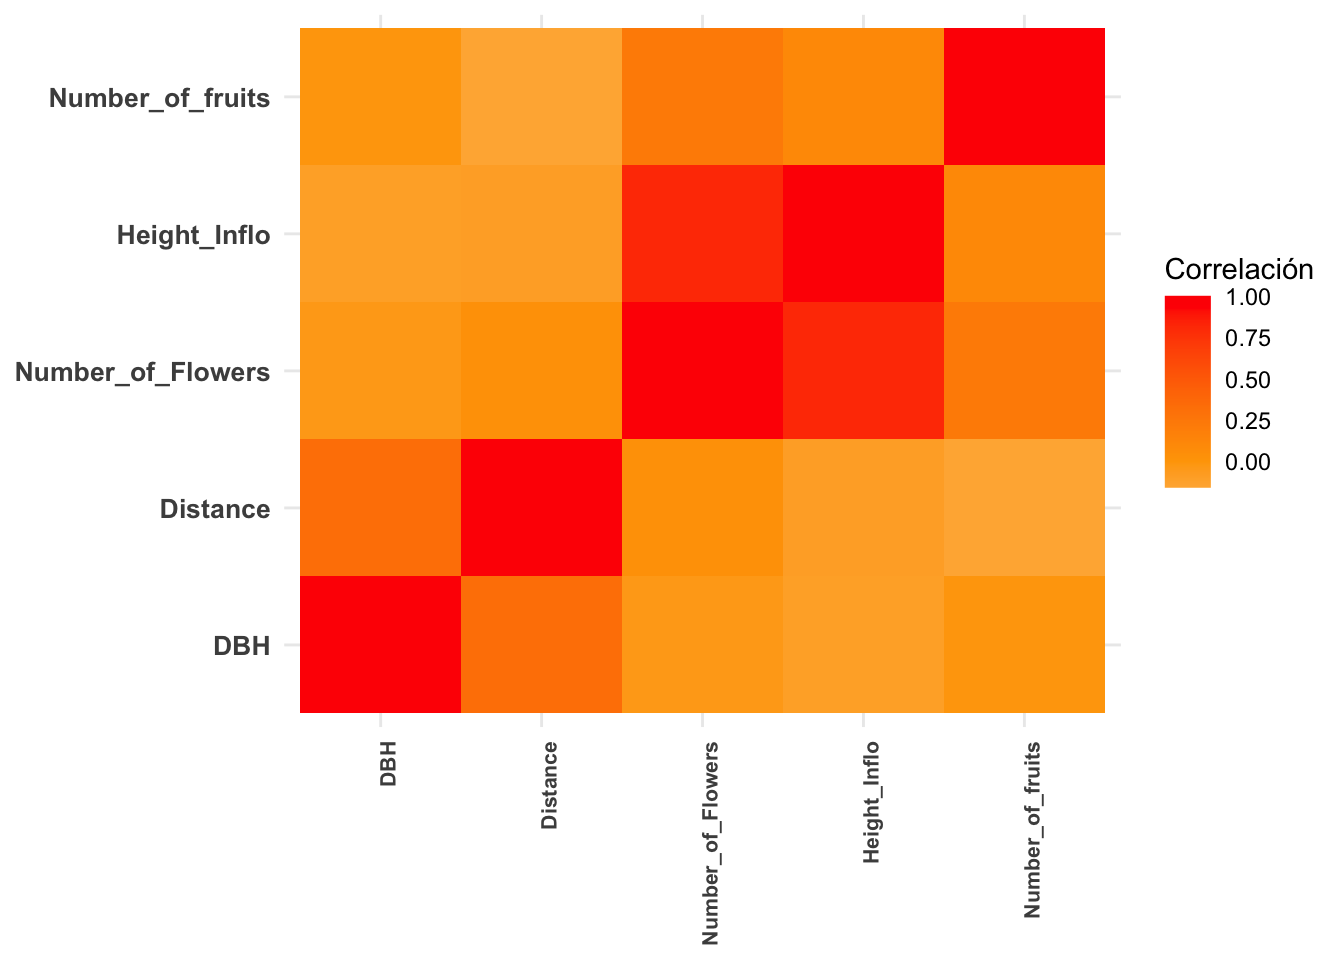
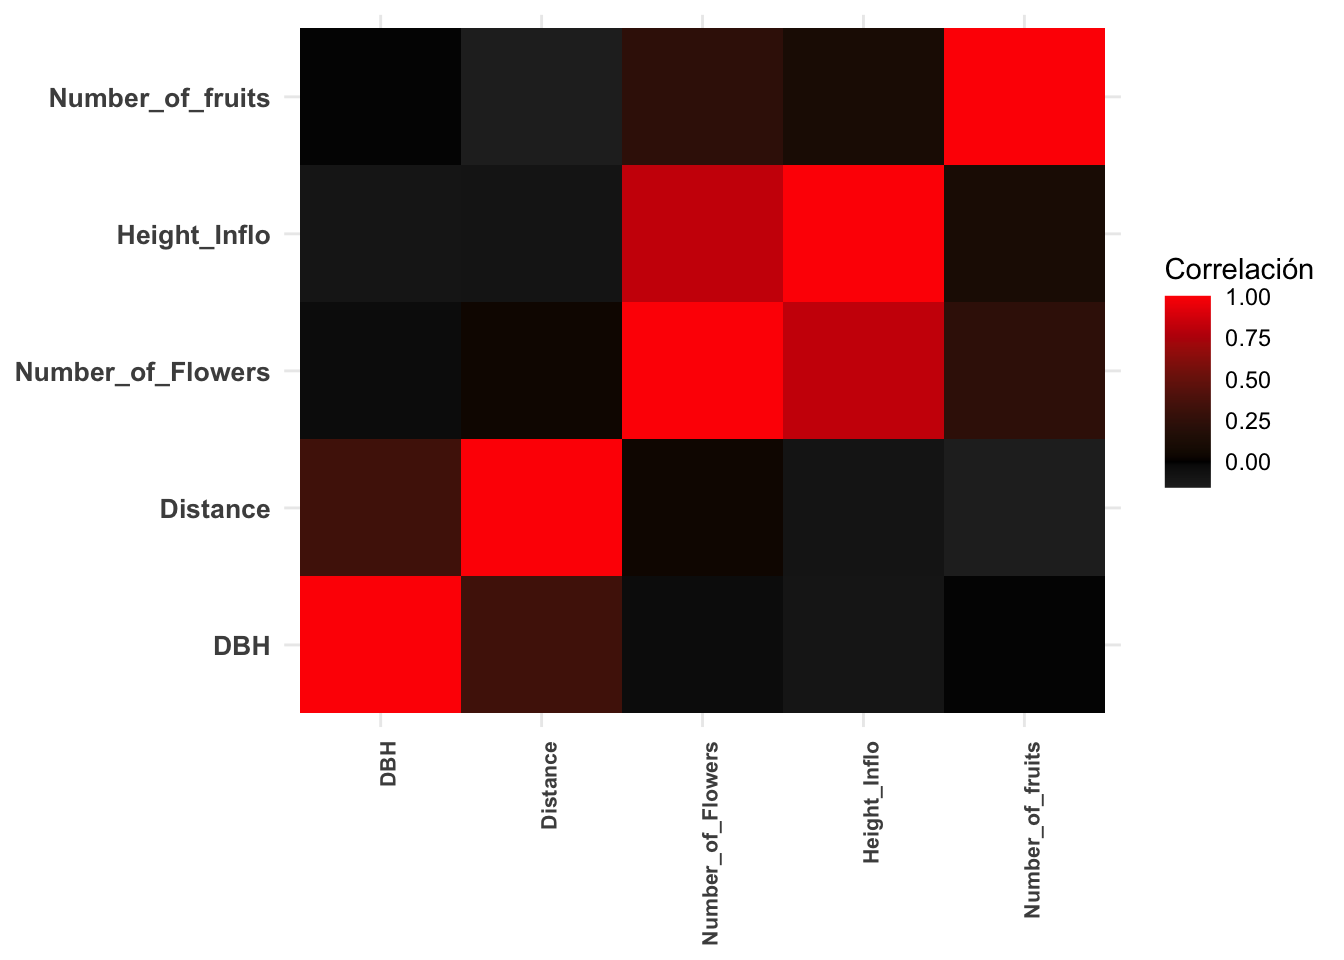
ggcorr

diff --git a/G12_Mapas_Calor.html b/G12_Mapas_Calor.html
@@ -753,9 +753,9 @@ Number_of_fruits
 <div class="sourceCode" id="cb7"><pre class="sourceCode r"><code class="sourceCode r"><span id="cb7-1"><a href="#cb7-1"></a><span class="kw">ggplot</span>(DWMelt, <span class="kw">aes</span>(<span class="dt">x=</span>x1, <span class="dt">y=</span>y1))<span class="op">+</span></span>
 <span id="cb7-2"><a href="#cb7-2"></a><span class="st">  </span><span class="kw">geom_tile</span>(<span class="kw">aes</span>(<span class="dt">fill=</span>Correlation))<span class="op">+</span></span>
 <span id="cb7-3"><a href="#cb7-3"></a><span class="st">  </span><span class="kw">scale_fill_gradient2</span>(<span class="dt">low=</span><span class="st">&quot;white&quot;</span>,</span>
-<span id="cb7-4"><a href="#cb7-4"></a>                       <span class="dt">mid=</span><span class="st">&quot;orange&quot;</span>, <span class="dt">high=</span><span class="st">&quot;red&quot;</span>,</span>
+<span id="cb7-4"><a href="#cb7-4"></a>                       <span class="dt">mid=</span><span class="st">&quot;black&quot;</span>, <span class="dt">high=</span><span class="st">&quot;red&quot;</span>,</span>
 <span id="cb7-5"><a href="#cb7-5"></a>  <span class="dt">guide=</span><span class="kw">guide_colorbar</span>(<span class="dt">ticks=</span><span class="ot">FALSE</span>,</span>
-<span id="cb7-6"><a href="#cb7-6"></a>                       <span class="dt">barheight=</span><span class="dv">5</span>, <span class="dt">limits=</span><span class="kw">c</span>(<span class="op">-</span><span class="dv">1</span>,<span class="dv">1</span>)))<span class="op">+</span></span>
+<span id="cb7-6"><a href="#cb7-6"></a>                       <span class="dt">barheight=</span><span class="dv">5</span>, <span class="dt">limits=</span><span class="kw">c</span>(<span class="op">-</span>.<span class="dv">5</span>,<span class="dv">1</span>)))<span class="op">+</span></span>
 <span id="cb7-7"><a href="#cb7-7"></a><span class="st">  </span><span class="kw">theme_minimal</span>()<span class="op">+</span></span>
 <span id="cb7-8"><a href="#cb7-8"></a><span class="st">  </span><span class="kw">labs</span>(<span class="dt">x=</span><span class="ot">NULL</span>, <span class="dt">y=</span><span class="ot">NULL</span>)<span class="op">+</span></span>
 <span id="cb7-9"><a href="#cb7-9"></a><span class="st">  </span><span class="kw">theme</span>(<span class="dt">axis.title=</span><span class="kw">element_text</span>(<span class="dt">size=</span><span class="dv">20</span>,<span class="dt">face=</span><span class="st">&quot;bold&quot;</span>),</span>
@@ -794,11 +794,11 @@ Number_of_fruits
 <div id="la-función-ggcorr" class="section level2">
 <h2>La función <strong>ggcorr</strong></h2>
 <p>La función <strong>ggcor</strong> tiene la ventaja de producir un gráfico de calor que representa solamente un espejo de los resultados. En los gráficos anteriores las misma información estaba ariba y abajo de la diagonal. Este represente solamente uno de los dos.</p>
-<div class="sourceCode" id="cb10"><pre class="sourceCode r"><code class="sourceCode r"><span id="cb10-1"><a href="#cb10-1"></a><span class="kw">ggcorr</span>(DWCor, <span class="dt">low =</span> <span class="st">&quot;steelblue&quot;</span>, <span class="dt">mid =</span> <span class="st">&quot;white&quot;</span>, <span class="dt">high =</span> <span class="st">&quot;darkred&quot;</span>, <span class="dt">nbreaks=</span><span class="dv">5</span>)</span></code></pre></div>
+<div class="sourceCode" id="cb10"><pre class="sourceCode r"><code class="sourceCode r"><span id="cb10-1"><a href="#cb10-1"></a><span class="kw">ggcorr</span>(DWCor, <span class="dt">low =</span> <span class="st">&quot;steelblue&quot;</span>, <span class="dt">mid =</span> <span class="st">&quot;white&quot;</span>, <span class="dt">high =</span> <span class="st">&quot;darkred&quot;</span>, <span class="dt">nbreaks=</span><span class="dv">6</span>)</span></code></pre></div>
 <p><img src="G12_Mapas_Calor_files/figure-html/unnamed-chunk-4-1.png" width="672" /></p>
 <p>Para un segundo ejemplo de <strong>ggcorr</strong></p>
 <div class="sourceCode" id="cb11"><pre class="sourceCode r"><code class="sourceCode r"><span id="cb11-1"><a href="#cb11-1"></a><span class="kw">ggcorr</span>(DWCor, <span class="dt">geom =</span> <span class="st">&quot;blank&quot;</span>, <span class="dt">label =</span> <span class="ot">TRUE</span>, <span class="dt">hjust =</span> <span class="fl">0.75</span>) <span class="op">+</span></span>
-<span id="cb11-2"><a href="#cb11-2"></a><span class="st">  </span><span class="kw">geom_point</span>(<span class="dt">size =</span> <span class="dv">10</span>, <span class="kw">aes</span>(<span class="dt">color =</span> coefficient <span class="op">&gt;</span><span class="st"> </span><span class="dv">0</span>, <span class="dt">alpha =</span> <span class="kw">abs</span>(coefficient) <span class="op">&gt;</span><span class="st"> </span><span class="fl">0.5</span>)) <span class="op">+</span></span>
+<span id="cb11-2"><a href="#cb11-2"></a><span class="st">  </span><span class="kw">geom_point</span>(<span class="dt">size =</span> <span class="dv">20</span>, <span class="kw">aes</span>(<span class="dt">color =</span> coefficient <span class="op">&gt;</span><span class="st"> </span><span class="dv">0</span>, <span class="dt">alpha =</span> <span class="kw">abs</span>(coefficient) <span class="op">&gt;</span><span class="st"> </span><span class="fl">0.5</span>)) <span class="op">+</span></span>
 <span id="cb11-3"><a href="#cb11-3"></a><span class="st">  </span><span class="kw">scale_alpha_manual</span>(<span class="dt">values =</span> <span class="kw">c</span>(<span class="st">&quot;TRUE&quot;</span> =<span class="st"> </span><span class="fl">0.25</span>, <span class="st">&quot;FALSE&quot;</span> =<span class="st"> </span><span class="dv">0</span>)) <span class="op">+</span></span>
 <span id="cb11-4"><a href="#cb11-4"></a><span class="st">  </span><span class="kw">guides</span>(<span class="dt">color =</span> <span class="ot">FALSE</span>, <span class="dt">alpha =</span> <span class="ot">FALSE</span>)</span></code></pre></div>
 <p><img src="G12_Mapas_Calor_files/figure-html/unnamed-chunk-5-1.png" width="672" /></p>
@@ -816,6 +816,23 @@ Number_of_fruits
 <li><p>linetype: representa el estilo de línea</p></li>
 <li><p>size: representa el ancho de la línea</p></li>
 </ul>
+</div>
+<div id="opciones-y-parametros-de-ggcorr" class="section level2">
+<h2>Opciones y Parametros de <strong>ggcorr()</strong></h2>
+<p>ggcorr(df, method=c(“pairwise”, “pearson”))</p>
+<ul>
+<li>nbreaks: a cantidad de categorias</li>
+<li>digits: la cantidad de digitos para visualizar la correlación</li>
+<li>low = “#3B9AB2”, El color básico de las corrlea ciones negativas</li>
+<li>mid = “#EEEEEE”, El color básico</li>
+<li>high = “#F21A00”,El color básico</li>
+<li>midpoint = 0: la correlación central que sera el color “mid”</li>
+<li>ver <strong>ggcorr</strong> para otras opciones</li>
+</ul>
+<hr />
+<ol style="list-style-type: decimal">
+<li>Anolis Data: Usa los datos del archivo <strong>Anolis</strong> en el paquete <strong>ggversa</strong> y haga un heat map de las siguientes variables, SVL, TAIL, Perch_Diameter, HEIGHT. Selecciona las variables, calcular las correlaciones y selecciona el rango de colores que representa bien el rango de correlaciones.</li>
+</ol>
 </div>
 
 
